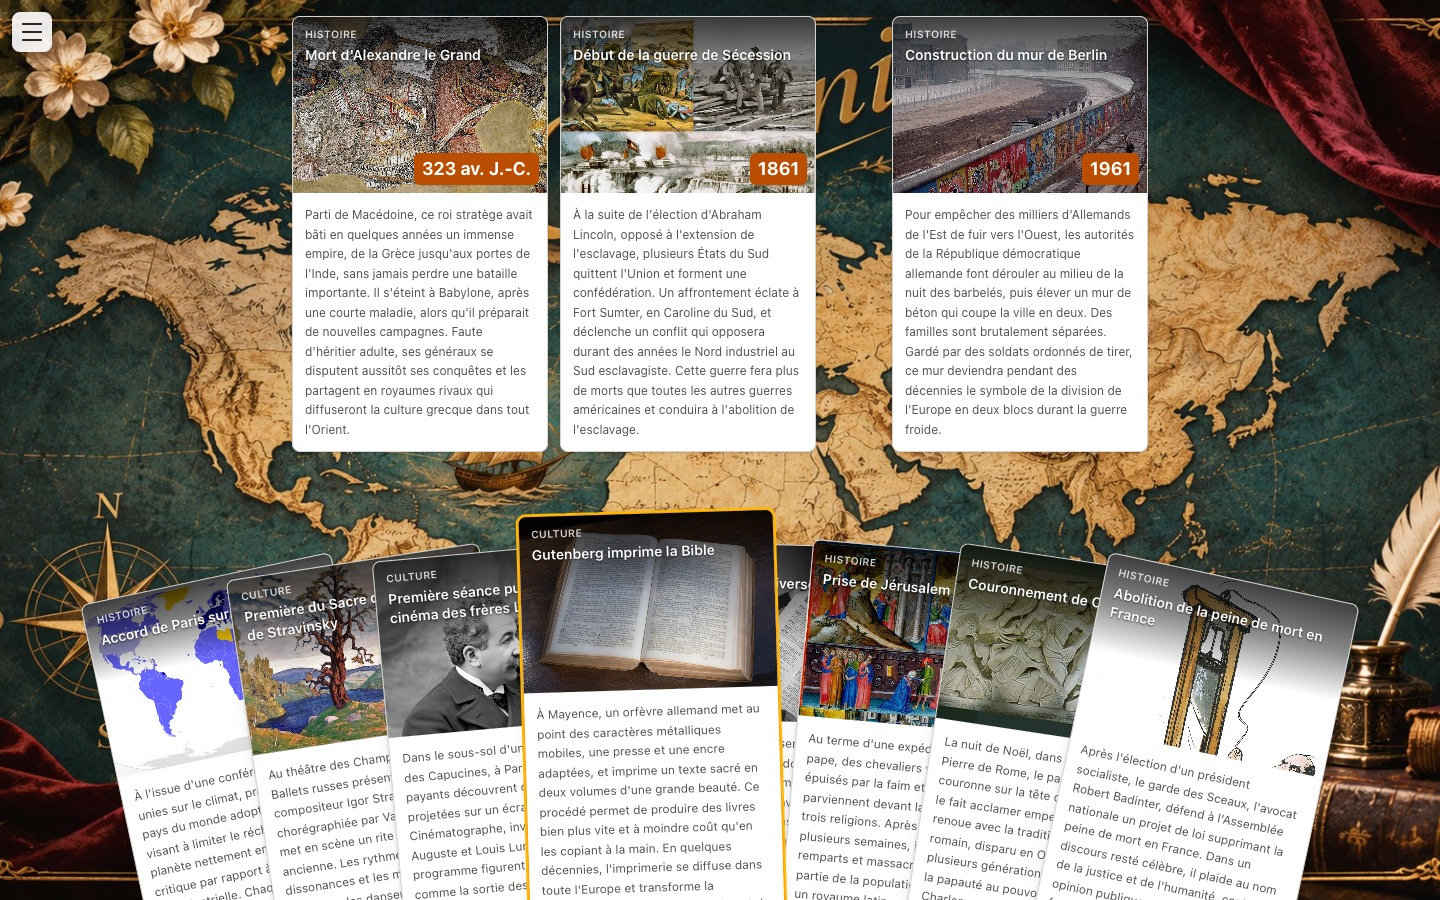
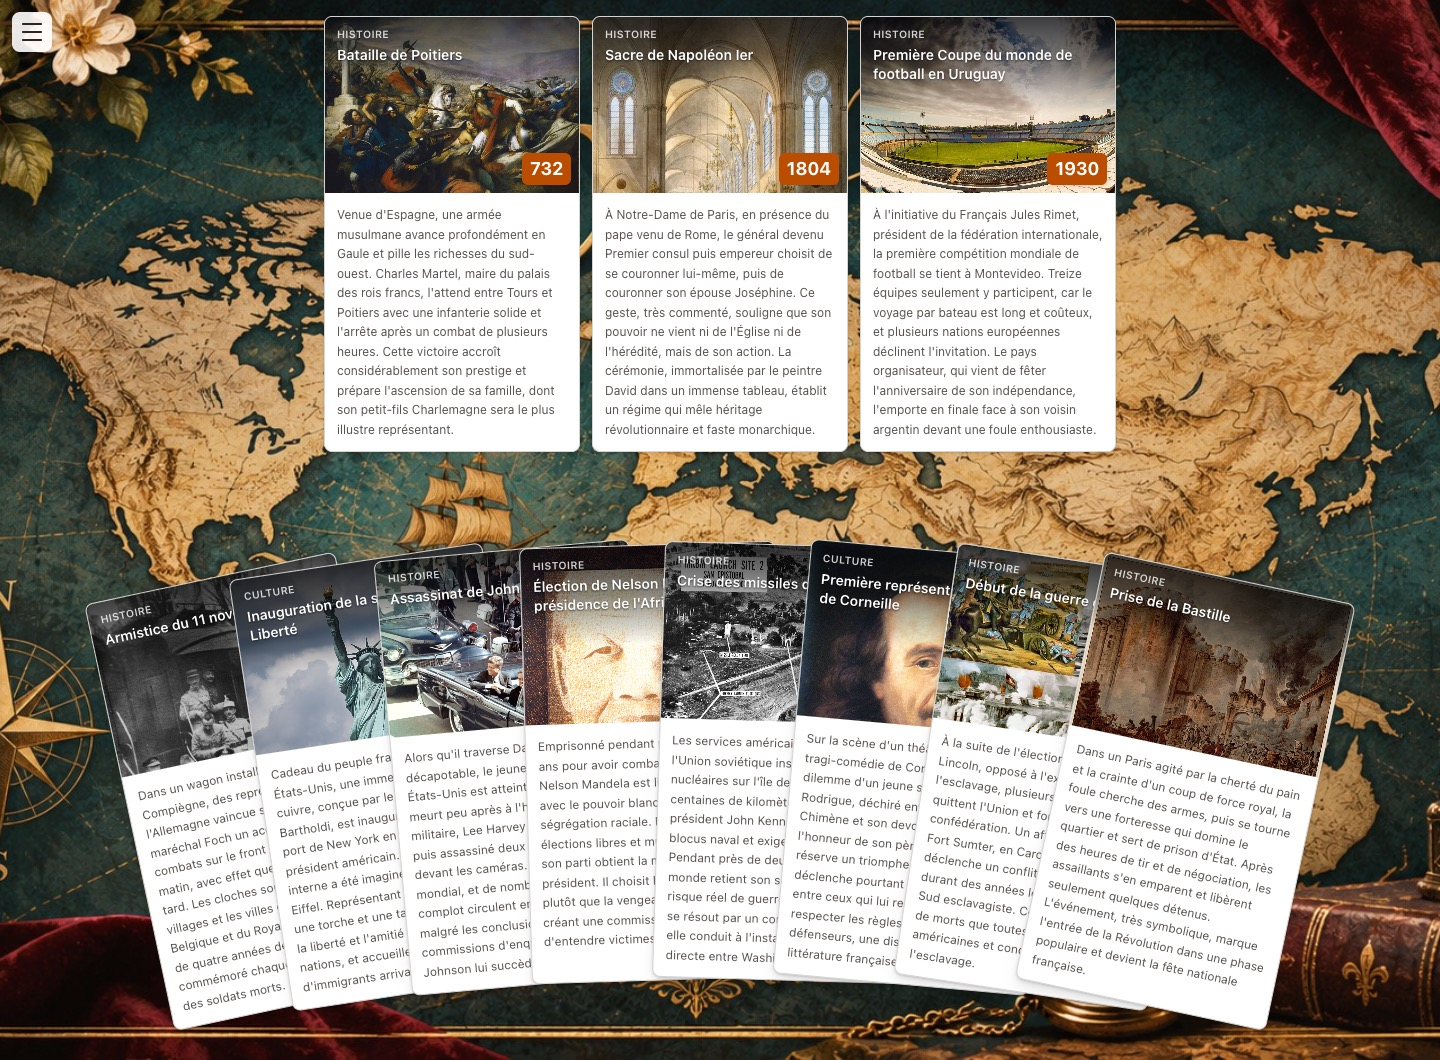
docs: show the full hand fan in the README screenshot

diff --git a/README.md b/README.md
@@ -3,7 +3,7 @@
 Jeu solo de frise chronologique : replacez des événements historiques et culturels dans le bon
 ordre, sans connaître leur date.
 
-![Une partie de Chroni : la frise datée en haut, avec un écart ouvert là où la carte va être posée ; la main en éventail en bas, la carte sélectionnée soulevée au premier plan](docs/images/chroni-partie.jpg)
+![Une partie de Chroni : la frise de trois cartes datées en haut ; en bas, la main du joueur en éventail, ses cartes à date cachée se chevauchant en arc](docs/images/chroni-partie.jpg)
 
 ## Objectif fonctionnel
 
